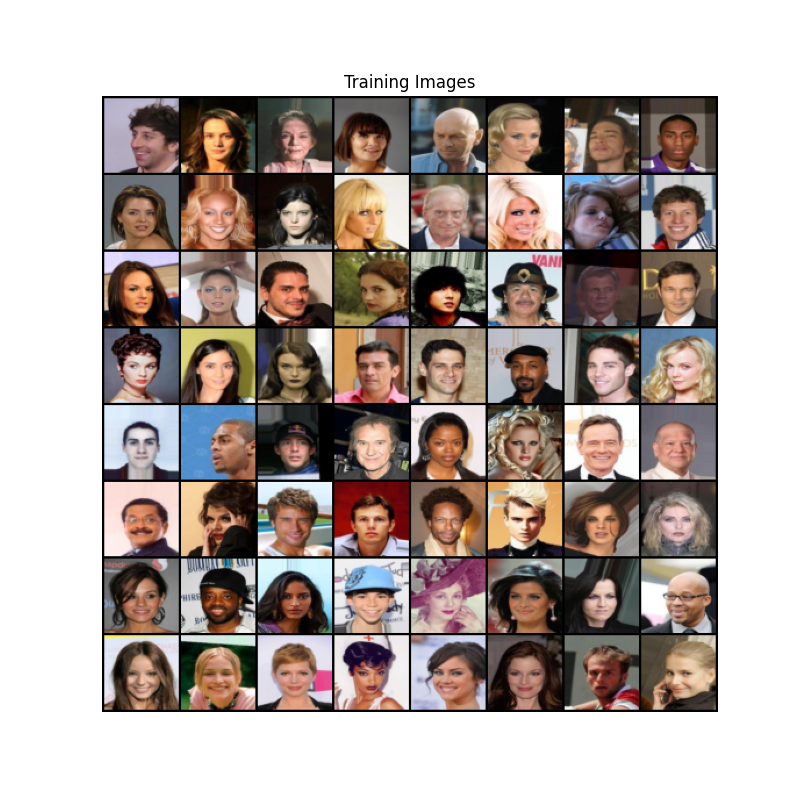
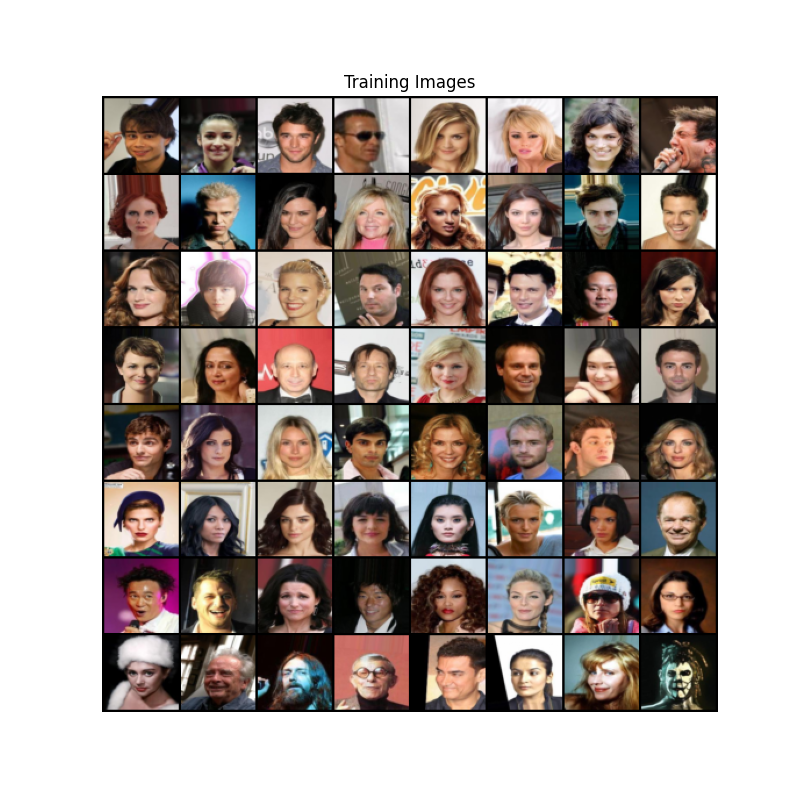
add facebook DCGAN pre-trained model, has minimal effect due to dataset mismatch

diff --git a/generate.py b/generate.py
@@ -1,40 +1,156 @@
+import argparse
+import os
+import numpy as np
+import zipfile
+import math
 import torch
 import ssl
-from torchvision import datasets, transforms
+import torch.optim as optim
+from torch.optim.lr_scheduler import CosineAnnealingLR
+from natsort import natsorted
+import torch.nn.functional as F
+from PIL import Image
+import gdown
+from torch.utils.data import Dataset
+from torchvision import transforms
+import torchvision
+from torchvision.datasets import ImageFolder
+from torchvision.utils import save_image
+import torchvision.transforms as transforms
+from torch.utils.data import DataLoader
+from torchvision import datasets
+import torch.nn as nn
+import torch.nn.functional as F
+from torchinfo import summary
+from dcgan_model import DCGAN
+from utils import load_dataset, get_dataloaders_celeba, set_all_seeds, set_deterministic
+from helper_train import train_gan_v1
+from helper_plotting import plot_multiple_training_losses, plot_multiple_training_accuracies, plot_accuracy_per_epoch, plot_multiple_training_accuracies
 import matplotlib.pyplot as plt
-import torchvision.utils as vutils
-import numpy as np
+
+os.makedirs("images", exist_ok=True)
+
+parser = argparse.ArgumentParser()
+parser.add_argument("--n_epochs", type=int, default = 50, help="number of epochs of training")
+parser.add_argument("--batch_size", type=int, default=128, help="size of the batches")
+parser.add_argument("--lr", type=float, default=0.0002, help="adam: learning rate")
+# parser.add_argument("--lr", type=float, default=0.0002, help="SGD: learning rate")
+# parser.add_argument("--lr", type=float, default=0.01, help="SGD: learning rate")
+parser.add_argument("--b1", type=float, default=0.5, help="adam: decay of first order momentum of gradient")
+parser.add_argument("--b2", type=float, default=0.999, help="adam: decay of first order momentum of gradient")
+parser.add_argument("--n_cpu", type=int, default=8, help="number of cpu threads to use during batch generation")
+parser.add_argument("--latent_dim", type=int, default=100, help="dimensionality of the latent space")
+parser.add_argument("--img_size", type=int, default=224, help="size of each image dimension")
+parser.add_argument("--channels", type=int, default=3, help="number of image channels")
+parser.add_argument("--sample_interval", type=int, default=200, help="interval betwen image samples")
+opt = parser.parse_args()
+print(opt)
+
+# Device
+ngpu = 1
+device = torch.device('cuda:0' if (
+    torch.cuda.is_available() and ngpu > 0) else 'cpu')
+cuda = True if torch.cuda.is_available() else False
+RANDOM_SEED = 42
+set_all_seeds(RANDOM_SEED) 
 
 ssl._create_default_https_context = ssl._create_unverified_context
+use_gpu = True if torch.cuda.is_available() else False
 
+model = torch.hub.load('facebookresearch/pytorch_GAN_zoo:hub', 'DCGAN', pretrained=True, useGPU=use_gpu)
+
+# optimizer
+optim_gen = model.getOptimizerG()
+optim_discr = model.getOptimizerD()
+
+# loss function 
+criterion = nn.BCELoss()
+# criterion = nn.MSELoss()
+
+# download the data directly
+data_root = 'data/celeba'
+dataset_folder = f'{data_root}'
 transform = transforms.Compose([
-    transforms.Resize(64),
-    transforms.CenterCrop(64),
-    transforms.ToTensor(),
-    transforms.Normalize((0.5, 0.5, 0.5), (0.5, 0.5, 0.5))
+    transforms.Resize((64, 64)), 
+    transforms.CenterCrop((64, 64)),  
+    transforms.ToTensor(), 
+    transforms.Normalize(mean=[0.5, 0.5, 0.5], std=[0.5, 0.5, 0.5]) 
 ])
 
-celeba_dataset = datasets.CelebA(root='data/celebA', split='all', transform=transform, download=True)
+# dataloader = DataLoader(celeba_dataset, batch_size=opt.batch_size, shuffle=True, num_workers=4)
+train_loader, valid_loader, test_loader = get_dataloaders_celeba(
+    batch_size=opt.batch_size,
+    train_transforms=transform,
+    test_transforms=transform,
+    num_workers=4)
 
-batch_size = 64
-dataloader = torch.utils.data.DataLoader(celeba_dataset, batch_size=batch_size, shuffle=True)
 
-use_gpu = True if torch.cuda.is_available() else False
-model = torch.hub.load('facebookresearch/pytorch_GAN_zoo', 'DCGAN', pretrained=True, useGPU=use_gpu)
+report_dir = "report2"
+os.makedirs(report_dir, exist_ok=True)
 
-num_images = 64
-noise, _ = model.buildNoiseData(num_images)
+# initialize as tensor, to avoid no .item() error
+loss_real = torch.tensor(0.0)
+loss_fake = torch.tensor(0.0)
+loss_G = torch.tensor(0.0)
 
-with torch.no_grad():
-    generated_images = model.test(noise, True, 0)
+num_epochs = 50
+for epoch in range(num_epochs):
+    for i, data in enumerate(train_loader):
+        # train Discriminator
+        optim_discr.zero_grad()
+        real_images, _ = data
+        real_images = real_images.to(device)
+        batch_size = real_images.size(0)
+        label_real = torch.ones(batch_size, 1).to(device)
+        label_fake = torch.zeros(batch_size, 1).to(device)
 
-# use cpu
-generated_images_cpu = generated_images.cpu()
+        # train with real images
+        output_real = model.netD(real_images)
+        print("output_real.shape: ", output_real.shape)
+        print("label_real.shape: ", label_real.shape)
+        break
+        label_real = torch.ones_like(output_real)
+        loss_real = criterion(output_real, label_real)
+        loss_real.backward()
 
-plt.figure(figsize=(8, 8))
-plt.axis("off")
-plt.title("Generated Images")
-plt.imshow(
-    np.transpose(vutils.make_grid(generated_images_cpu, padding=2, normalize=True).cpu().numpy(), (1, 2, 0))
-)
-plt.savefig("generated_image.jpg")
+        # train with fake images
+        noise = torch.randn(batch_size, 120, 1, 1).to(device)
+        fake_images = model.netG(noise)
+
+        output_fake = model.netD(fake_images.detach())
+        label_fake = torch.zeros_like(output_fake)
+        loss_fake = criterion(output_fake, label_fake)
+        loss_fake.backward()
+
+        optim_discr.step()
+
+        # train Generator
+        optim_gen.zero_grad()
+        output = model.netD(fake_images)
+        loss_G = criterion(output, label_real)  # Generator tries to fool the discriminator
+        loss_G.backward()
+        optim_gen.step()
+
+    print('[%d/%d] Loss_D_Real: %.4f Loss_D_Fake: %.4f Loss_G: %.4f' %
+          (epoch + 1, num_epochs, loss_real.item(), loss_fake.item(), loss_G.item()))
+
+    
+    with torch.no_grad():
+        noise = torch.randn(batch_size, 120, 1, 1)
+        if use_gpu:
+            noise = noise.cuda()
+        fake = model.netG(noise).detach().cpu()
+        img_grid = torchvision.utils.make_grid(fake, padding=2, normalize=True)
+        plt.imshow(img_grid.permute(1, 2, 0))
+        plt.savefig(os.path.join(report_dir, f"epoch_{epoch}_generated_images.png"))
+        plt.close()
+
+
+
+
+
+
+
+
+
+

diff --git a/helper_evaluate.py b/helper_evaluate.py
@@ -1,51 +1,3 @@
 import torch
 import torch.nn.functional as F
 
-
-
-
-# def compute_accuracy(model, data_loader, device):
-#     model.eval()
-#     with torch.no_grad():
-#         correct_pred, num_examples = 0, 0
-#         for i, (features, targets) in enumerate(data_loader):
-
-#             features = features.to(device)
-#             targets = targets.to(device)
-
-#             logits = model(features)
-#             _, predicted_labels = torch.max(logits, 1)
-#             num_examples += targets.size(0)
-#             correct_pred += (predicted_labels == targets).sum()
-#     return correct_pred.float()/num_examples * 100
-
-
-# def compute_epoch_loss_classifier(model, data_loader, loss_fn, device):
-#     model.eval()
-#     curr_loss, num_examples = 0., 0
-#     with torch.no_grad():
-#         for features, targets in data_loader:
-#             features = features.to(device)
-#             targets = targets.to(device)
-#             logits = model(features)
-#             loss = loss_fn(logits, targets, reduction='sum')
-#             num_examples += targets.size(0)
-#             curr_loss += loss
-
-#         curr_loss = curr_loss / num_examples
-#         return curr_loss
-    
-
-# def compute_epoch_loss_autoencoder(model, data_loader, loss_fn, device):
-#     model.eval()
-#     curr_loss, num_examples = 0., 0
-#     with torch.no_grad():
-#         for features, _ in data_loader:
-#             features = features.to(device)
-#             logits = model(features)
-#             loss = loss_fn(logits, features, reduction='sum')
-#             num_examples += features.size(0)
-#             curr_loss += loss
-
-#         curr_loss = curr_loss / num_examples
-#         return curr_loss

diff --git a/dcgan_face.py b/dcgan_face.py
@@ -190,26 +190,16 @@ Epoch: 001/030 | Batch 300/1272 | Gen/Dis Loss: 34.4951/0.0000
 Epoch: 001/030 | Batch 325/1272 | Gen/Dis Loss: 31.7266/0.0001
 Epoch: 001/030 | Batch 350/1272 | Gen/Dis Loss: 25.9539/0.0000
 """
-# optim_gen = optim.SGD(model.generator.parameters(), lr=opt.lr, momentum=0.9, weight_decay=5e-4)
-# optim_discr = optim.SGD(model.discriminator.parameters(), lr=opt.lr, momentum=0.9, weight_decay=5e-4)
-
-# the learning rate scheduler
-# scheduler = CosineAnnealingLR(optim_gen, T_max=200)
-
-
 # download the data directly
 data_root = 'data/celeba'
 dataset_folder = f'{data_root}'
 transform = transforms.Compose([
-    transforms.Resize((64, 64)),  # Resize images to 64x64
-    transforms.CenterCrop((64, 64)),  # Crop to remove unwanted borders
-    transforms.ToTensor(),  # Convert images to PyTorch tensors
+    transforms.Resize((64, 64)), 
+    transforms.CenterCrop((64, 64)),  
+    transforms.ToTensor(), 
     transforms.Normalize(mean=[0.5, 0.5, 0.5], std=[0.5, 0.5, 0.5])  # Normalize tensors
 ])
-# celeba_dataset = ImageFolder(root=data_root,
-#             transform=transform)
 
-# dataloader = DataLoader(celeba_dataset, batch_size=opt.batch_size, shuffle=True, num_workers=4)
 train_loader, valid_loader, test_loader = get_dataloaders_celeba(
     batch_size=opt.batch_size,
     train_transforms=transform,
@@ -279,7 +269,6 @@ plot_multiple_training_accuracies(
                 num_epochs = opt.n_epochs, 
                 save_dir = "reports")
 
-# create "images" folder at the same level
 os.makedirs("images", exist_ok=True)
 
 # save images generated at epoch intervals

diff --git a/helper_plotting.py b/helper_plotting.py
@@ -53,10 +53,6 @@ def plot_multiple_training_losses(losses_list, num_epochs, averaging_iterations=
 
     plt.tight_layout()
 
-    # script_dir = os.path.dirname(os.path.abspath(__file__))
-    # reports_dir = os.path.join(script_dir, "reports") 
-
-    # If save_dir is provided, save the plot to the specified directory
     if save_dir:
         # save_path = os.path.join(reports_dir, save_dir)
         os.makedirs(save_dir, exist_ok=True)  # Ensure that the directory exists or create it
@@ -76,13 +72,11 @@ def plot_accuracy_per_epoch(real_acc_per_epoch, fake_acc_per_epoch, num_epochs, 
     plt.tight_layout()
     if save_dir:
         # save_path = os.path.join(reports_dir, save_dir)
-        os.makedirs(save_dir, exist_ok=True)  # Ensure that the directory exists or create it
+        os.makedirs(save_dir, exist_ok=True)  
         plt.savefig(os.path.join(save_dir, f"training_acc_{num_epochs}.png"))
     else:
         plt.show()
 
-# May try this later using the same logic with loss plotting
-# this keeps track all batches' acc movements
 def plot_multiple_training_accuracies(real_accuracies, fake_accuracies, num_epochs, save_dir):
     """
     Plot the accuracies of discriminator on real and fake data per batch.
